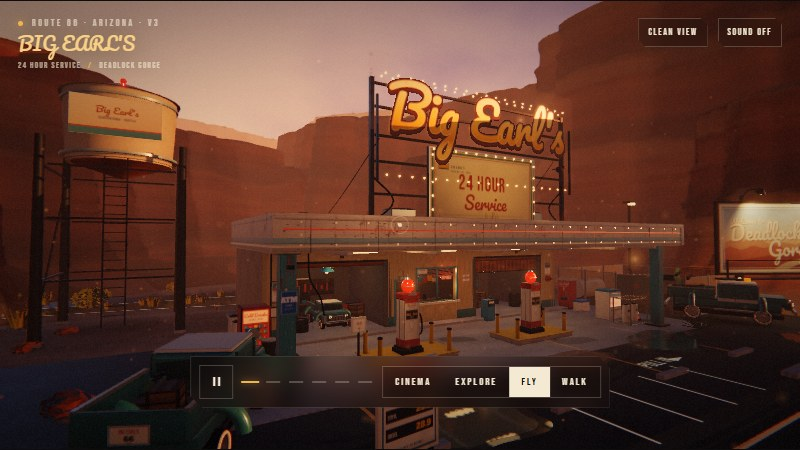
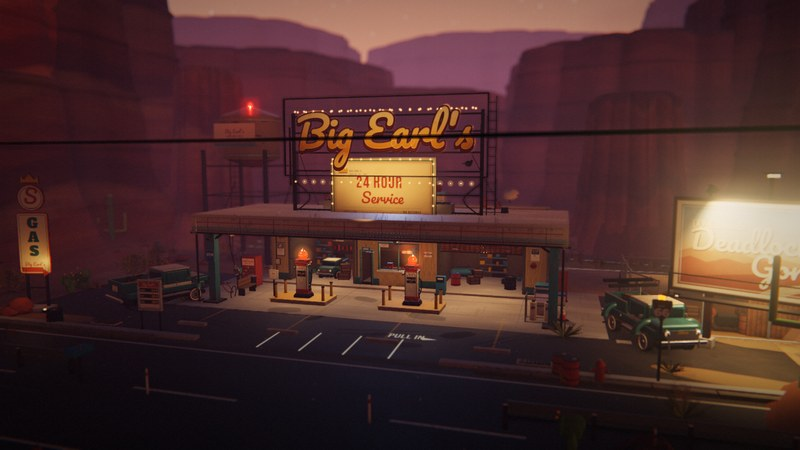
Release v0.0.9: refresh homepage screenshots and About

diff --git a/index.html b/index.html
@@ -3,7 +3,7 @@
 <head>
 <meta charset="utf-8" />
 <meta name="viewport" content="width=device-width, initial-scale=1, maximum-scale=1" />
-<title>BIG EARL'S — Deadlock Gorge · Route 66</title>
+<title>BIG EARL'S — Deadlock Gorge · Route 66 · v0.0.9</title>
 <link rel="stylesheet" href="./style.css" />
 </head>
 <body>
@@ -14,7 +14,7 @@
 
   <header id="hud-top" class="hud">
     <div class="brand">
-      <div class="eyebrow"><span class="dot"></span> ROUTE 66 · ARIZONA · V3</div>
+      <div class="eyebrow"><span class="dot"></span> ROUTE 66 · ARIZONA · BUILD 0.0.9</div>
       <h1>BIG EARL'S</h1>
       <div class="sub">24 HOUR SERVICE <span class="sep">/</span> DEADLOCK GORGE</div>
     </div>

diff --git a/docs/index.html b/docs/index.html
@@ -3,7 +3,7 @@
 <head>
 <meta charset="utf-8" />
 <meta name="viewport" content="width=device-width, initial-scale=1, maximum-scale=1" />
-<title>BIG EARL'S — Deadlock Gorge · Route 66</title>
+<title>BIG EARL'S — Deadlock Gorge · Route 66 · v0.0.9</title>
 <style>
 :root{
   --cream:#F4E9D2;
@@ -204,7 +204,7 @@ canvas{cursor:none}
 
   <header id="hud-top" class="hud">
     <div class="brand">
-      <div class="eyebrow"><span class="dot"></span> ROUTE 66 · ARIZONA · V3</div>
+      <div class="eyebrow"><span class="dot"></span> ROUTE 66 · ARIZONA · BUILD 0.0.9</div>
       <h1>BIG EARL'S</h1>
       <div class="sub">24 HOUR SERVICE <span class="sep">/</span> DEADLOCK GORGE</div>
     </div>

diff --git a/tools/resize-homepage-shots.py b/tools/resize-homepage-shots.py
@@ -1,0 +1,13 @@
+from PIL import Image
+pairs = [
+ ('shots/homepage/hero.png','docs/shots/hero.jpg'),
+ ('shots/homepage/dusk.png','docs/shots/dusk.jpg'),
+ ('shots/homepage/aerial2.png','docs/shots/aerial.jpg'),
+ ('shots/homepage/sign.png','docs/shots/sign.jpg'),
+ ('shots/homepage/service.png','docs/shots/service.jpg'),
+ ('shots/homepage/pump.png','docs/shots/pump.jpg'),
+]
+for src,dst in pairs:
+    im = Image.open(src).convert('RGB').resize((800,450), Image.LANCZOS)
+    im.save(dst, 'JPEG', quality=88, optimize=True)
+    print(dst, im.size)

diff --git a/README.md b/README.md
@@ -4,7 +4,7 @@
 
 **by DeepSeek-V4.1-flash 🐳**
 
-**Three.js r170 · single scene · six cinema shots · 100% procedural**
+**v0.0.9 · Three.js r170 · single scene · six cinema shots · 100% procedural**
 
 [**Live preview**](https://cl0ud-99.github.io/big-earls/) — runs in the browser, nothing to install.
 
@@ -25,11 +25,24 @@ No Blizzard geometry, textures, audio or other game assets are used. Every mesh,
 
 | | |
 |---|---|
-| ![dusk](docs/shots/dusk.jpg) | ![aerial](docs/shots/aerial.jpg) |
+| ![sign](docs/shots/sign.jpg) | ![service](docs/shots/service.jpg) |
+| ![pump](docs/shots/pump.jpg) | ![dusk](docs/shots/dusk.jpg) |
+
+![aerial](docs/shots/aerial.jpg)
 
 ## What it is
 
 A single-page Three.js r170 application with three ways to see the same location: a six-shot, 63-second PV timeline; an orbit/explore camera; and a free-fly / first-person walk mode with collisions, jumping and footsteps. The scene is deliberately one place — the Overwatch Route 66 stop at the edge of Deadlock Gorge — with the detail budget spent on materials, lighting and set dressing rather than map size.
+
+## About
+
+Big Earl's 0.0.9 is a single-scene procedural diorama and a six-shot short film about one roadside stop at the edge of Deadlock Gorge.
+
+- **One location, three ways in**: a 63-second, six-shot cinema timeline; an orbit/explore camera; and a first-person walk mode with collision, jumping and footsteps.
+- **Everything is generated in code**: geometry, signage, painted-metal textures, canvas-labelled props, canyon strata, water, dust and Web Audio ambience. No model files, image textures, HDRIs or audio samples.
+- **Built to be looked at closely**: hero pumps, pickup truck, canopy fascia, roof sign and service bays carry bevels, rivets, brackets, hoses, handles and edge wear; the distant mesas carry the silhouette.
+- **Runs on a 1600×900 budget of roughly 690 draw calls and 2.49M triangles**, with cached shadows, half-rate planar reflections and merged static batches.
+- Built with Three.js r170 and esbuild; the deployable page is one self-contained `docs/index.html` file that also works from `file://`.
 
 `src/` is the whole program:
 
@@ -134,11 +147,11 @@ The sun sits low and to the right, which puts the canopy edge and the pump bodie
 
 The water is the same idea: the reflection is sharp in the puddles but the normal map breaks it up just enough to read as standing water rather than a mirror. Red and blue fall off a little faster than green in the creek, so it goes olive rather than cyan.
 
-No black cloud sprites, no cursor artefacts: the V3 build hides the OS cursor over the canvas, removes the old moon sprite and the flying-bird flock, and leaves the sky to the shader, stars and sun.
+No black cloud sprites, no cursor artefacts: the v0.0.9 build hides the OS cursor over the canvas, removes the old moon sprite and the flying-bird flock, and leaves the sky to the shader, stars and sun.
 
 ## Screenshots
 
-`docs/shots/` holds the two views above, captured from the current V3 build. The working `shots/` directory is git-ignored — it contains the parameter sweeps and review captures.
+`docs/shots/` holds the release views above, captured from the current v0.0.9 build. The working `shots/` directory is git-ignored — it contains the parameter sweeps and review captures.
 
 ## Disclaimer
 
@@ -146,6 +159,6 @@ Unofficial fan project. **Overwatch** and **Route 66** are trademarks of Blizzar
 
 ---
 
-**Status:** V3 — cleaned vegetation pass, no sky artefacts, single-file build verified from `file://`.
+**Status:** v0.0.9 — procedural hero detail pass, paint/wear material family, visual regression verified across all six shots, single-file build verified from `file://`.
 
 **Model:** DeepSeek-V4.1-flash. **Stack:** Three.js r170 · esbuild · procedural canvas textures · Web Audio.
